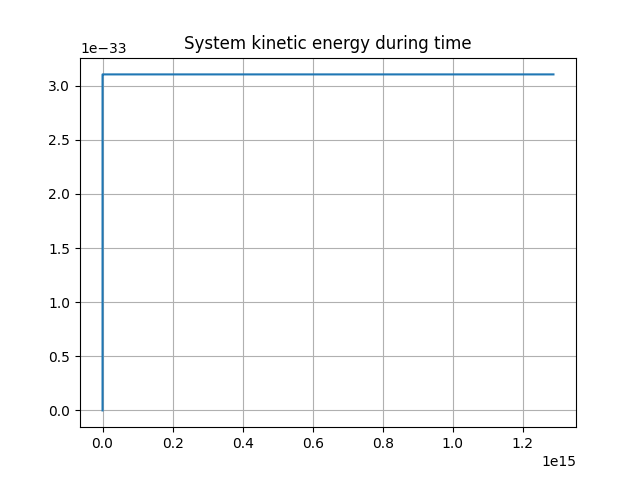
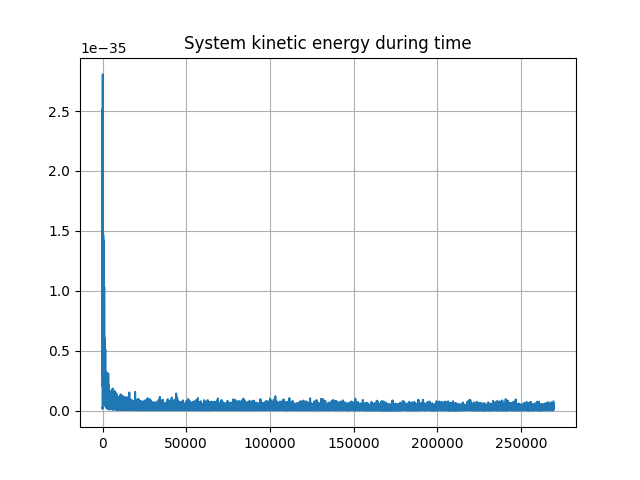
Done

diff --git a/generate_solutions.py b/generate_solutions.py
@@ -249,11 +249,11 @@ def compute_solution_trash_points_by_steps(
     max_n_steps: int,
     initial_step_size: int,
     multiple_steps_method: bool = False,
-    number_of_steps: int = 1,
+    model_n_steps: int = 1,
+    model_order: int = 4,
     ratio: int = 1,
     variable_steps: bool = False,
-    tolerated_variation: int = 0.05,
-    model_order: int = 4
+    tolerated_variation: int = 0.05
 ) -> Tuple[List[Vector], List[float]]:
     """
     compute an approximated solution of the given differential equation using the given model between min and max in a specified number of steps. This method also keep a limited amount of position points allowing it to consume less memory. The catch is that you need to set a ration number higher than the number of step used or it wont work
@@ -262,18 +262,18 @@ def compute_solution_trash_points_by_steps(
     :type model: Callable[[List[Vector], differential_equation_type, float, float, int], Vector]
     :param differential_equation: represent the differential equation system to approximate. It is a function which represent the f in the equation y' = f(y, t)
     :type differential_equation: Callable[[Vector, float], Vector]
-    :param steps: number of steps used to approximate the solution
-    :type steps: int
-    :param minimum: the value where we start to compute the approximate solution of the differential equation
-    :type minimum: float
-    :param maximum: the value where we stop to compute the approximate solution of the differential equation
-    :type maximum: float
     :param initial_conditions: the initial values of the differential equation system
     :type initial_conditions: Vector
+    :param max_n_steps: number of steps used to approximate the solution
+    :type max_n_steps: int
+    :param initial_step_size: initial guess for appropriate step nice, not modified if non-variable steps
+    :type initial_step_size: int/float
     :param multiple_steps_method: if true, means that the model used is using multiple steps to compute the solution
     :type multiple_steps_method: bool
-    :param number_of_steps: if the method is using multiple steps, it is the maximum number of step used by it
-    :type number_of_step: int
+    :param model_n_steps: if the method is using multiple steps, it is the maximum number of step used by it
+    :type model_n_steps: int
+    :param model_order: convergence order of the model
+    :type model_order: int
     :param ratio: number of point keeped during computation. If 1 all points will be keeped, if 2 only one out of 2, ...
     :type ratio: int
     :param variable_steps: if true, means that the steps sise adapts to change
@@ -357,8 +357,7 @@ def compute_solution_trash_points_by_steps(
                 counter = 1
                 for i in range(ratio - 1):
                     solution.pop(len(solution) - 2 * ratio + i)
-                    time_index_deleted.append(time_index[len(solution) - 2 * ratio + i])
-                    time_index.pop(time_index[len(solution) - 2 * ratio + i])
+                    time_index.pop(len(solution) - 2 * ratio + i)
             else:
                 counter += 1
 

diff --git a/main.py b/main.py
@@ -24,7 +24,7 @@ solution_normalized, time_noramlized = compute_solution_trash_points_by_steps(
     50000,
     1,
     multiple_steps_method=True,
-    ratio=1,
+    ratio=2,
     variable_steps=True,
 )
 
